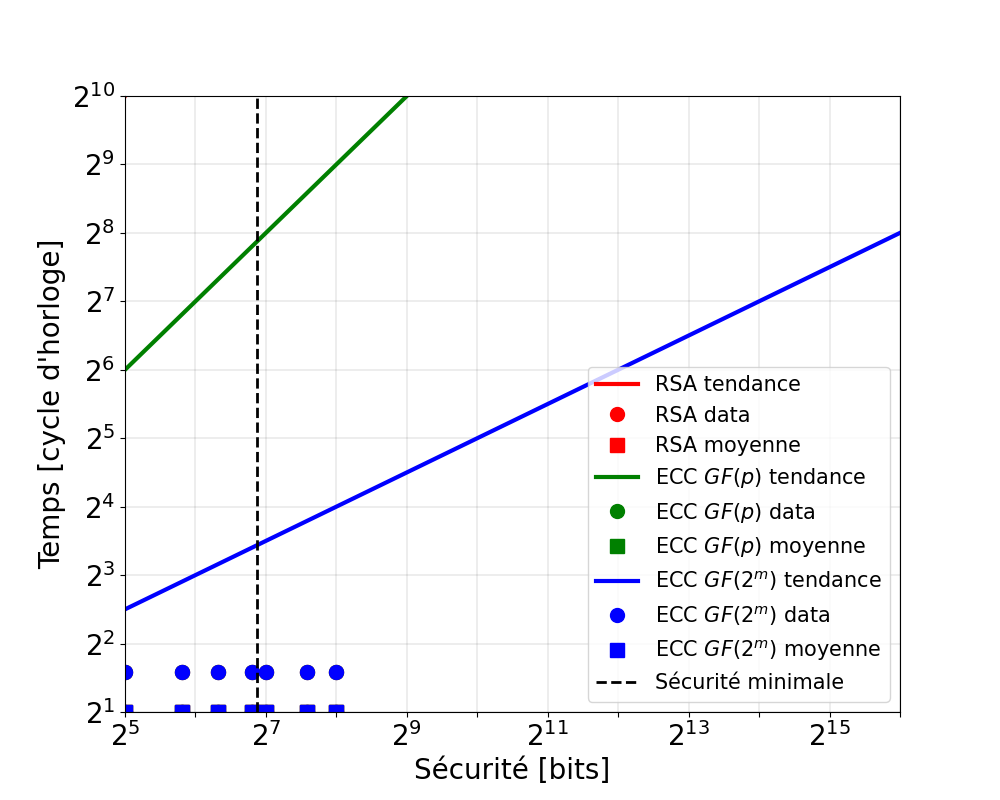
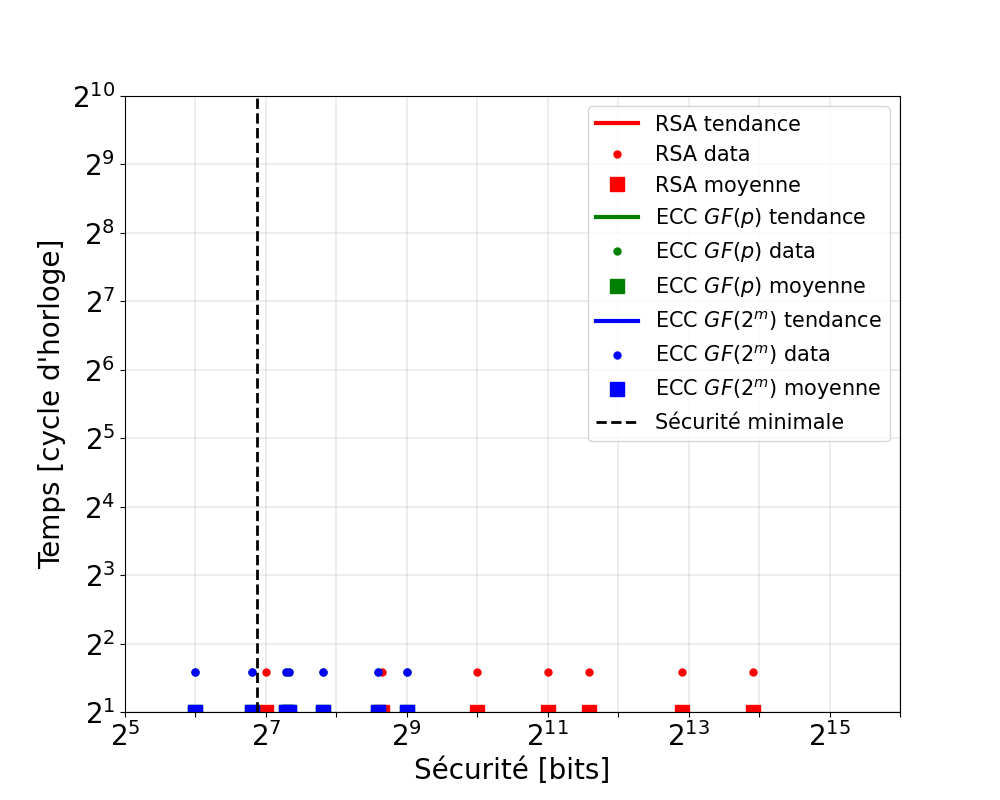
wip

diff --git a/python_crypto/Essai_figures/result_time_keygen.py b/python_crypto/Essai_figures/result_time_keygen.py
@@ -1,92 +1,120 @@
-from prime_utils import*
-from elliptic_curve import*
+from prime_utils import *
+from elliptic_curve import *
 from math import comb
-from graphs import*
+from graphs import *
 import numpy as np
 
 path = "./images/figure_time_keygen.png"
 x_label = "Sécurité [bits]"
 y_label = "Temps [cycle d'horloge]"
-markersize = 10
+markersize_data = 5
+markersize_mean = 10
 linewidth = 3
+nb_round = 20
 securities = np.logspace(5, 16, 100, True, 2)
+key_length_symetric = [32, 56, 80, 112, 128, 192, 256]
 
-data_rsa_32 = [1,2,3]
-data_rsa_56 = [1,2,3]
-data_rsa_80 = [1,2,3]
-data_rsa_112 = [1,2,3]
-data_rsa_128 = [1,2,3]
-data_rsa_192 = [1,2,3]
-data_rsa_256 = [1,2,3]
+def f_clock_keygen(nb_bits, nb_round, nb_tries):
+    return 3 * nb_bits * nb_bits * nb_round * nb_tries + nb_tries
+
+
+# def f_regs_keygen(nb_bits, nb_round, nb_tries):
+#     return nb_round * nb_tries * (14 * nb_bits ** 3 - 5 * nb_bits ** 2) + nb_tries
+#
+#
+# def f_gates_keygen(nb_bits, nb_round, nb_tries):
+#     return nb_tries * (nb_round * (56 * nb_bits ** 3 - 17 * nb_bits ** 2 - 3 * nb_bits) + 5 * nb_bits)
+
+
+data_rsa_32 = [1, 2, 3]
+data_rsa_56 = [1, 2, 3]
+data_rsa_80 = [1, 2, 3]
+data_rsa_112 = [1, 2, 3]
+data_rsa_128 = [1, 2, 3]
+data_rsa_192 = [1, 2, 3]
+data_rsa_256 = [1, 2, 3]
 data_rsa = [data_rsa_32, data_rsa_56, data_rsa_80, data_rsa_112, data_rsa_128, data_rsa_192, data_rsa_256]
-security_rsa = [32, 56, 80, 112, 128, 192, 256]
+key_length_rsa = [128, 400, 1024, 2044, 3072, 7680, 15360]
 labels_rsa = ["RSA tendance", "RSA data", "RSA moyenne"]
 color_shapes_rsa = ['r-', 'ro', 'rs']
 
-def f_rsa(nb_try):
-    return nb_try**2
+def f_rsa(nb_bits, nb_round):
+    nb_tries = np.log(2)*nb_bits/2
+    return f_clock_keygen(nb_bits, nb_round, nb_tries)
 
-data_ecc_p_32 = [1,2,3]
-data_ecc_p_56 = [1,2,3]
-data_ecc_p_80 = [1,2,3]
-data_ecc_p_112 = [1,2,3]
-data_ecc_p_128 = [1,2,3]
-data_ecc_p_192 = [1,2,3]
-data_ecc_p_256 = [1,2,3]
+
+data_ecc_p_32 = [1, 2, 3]
+data_ecc_p_56 = [1, 2, 3]
+data_ecc_p_80 = [1, 2, 3]
+data_ecc_p_112 = [1, 2, 3]
+data_ecc_p_128 = [1, 2, 3]
+data_ecc_p_192 = [1, 2, 3]
+data_ecc_p_256 = [1, 2, 3]
 data_ecc_p = [data_ecc_p_32, data_ecc_p_56, data_ecc_p_80, data_ecc_p_112, data_ecc_p_128, data_ecc_p_192, data_ecc_p_256]
-security_ecc_p = [32, 56, 80, 112, 128, 192, 256]
+key_length_ecc_p = [64, 112, 160, 224, 156, 384, 512]
 labels_ecc_p = [r"ECC $GF(p)$ tendance", "ECC $GF(p)$ data", "ECC $GF(p)$ moyenne"]
 color_shapes_ecc_p = ['g-', 'go', 'gs']
 
-def f_ecc_p(nb_try):
-    return 2*nb_try
 
-data_ecc_2m_32 = [1,2,3]
-data_ecc_2m_56 = [1,2,3]
-data_ecc_2m_80 = [1,2,3]
-data_ecc_2m_112 = [1,2,3]
-data_ecc_2m_128 = [1,2,3]
-data_ecc_2m_192 = [1,2,3]
-data_ecc_2m_256 = [1,2,3]
+def f_ecc_p(nb_bits, nb_round):
+    nb_tries = np.log(2)*nb_bits/2
+    return f_clock_keygen(nb_bits, nb_round, nb_tries)
+
+
+data_ecc_2m_32 = [1, 2, 3]
+data_ecc_2m_56 = [1, 2, 3]
+data_ecc_2m_80 = [1, 2, 3]
+data_ecc_2m_112 = [1, 2, 3]
+data_ecc_2m_128 = [1, 2, 3]
+data_ecc_2m_192 = [1, 2, 3]
+data_ecc_2m_256 = [1, 2, 3]
 data_ecc_2m = [data_ecc_2m_32, data_ecc_2m_56, data_ecc_2m_80, data_ecc_2m_112, data_ecc_2m_128, data_ecc_2m_192, data_ecc_2m_256]
-security_ecc_2m = [32, 56, 80, 112, 128, 192, 256]
+key_length_ecc_2m = [64, 112, 160, 224, 156, 384, 512]
 labels_ecc_2m = [r"ECC $GF(2^m)$ tendance", "ECC $GF(2^m)$ data", "ECC $GF(2^m)$ moyenne"]
 color_shapes_ecc_2m = ['b-', 'bo', 'bs']
 
-def f_ecc_2m(nb_try):
-    return np.sqrt(nb_try)
+
+def f_ecc_2m(nb_bits, nb_round):
+    nb_tries = np.log(2)*nb_bits/2
+    return f_clock_keygen(nb_bits, nb_round, nb_tries)
+
 
 def get_RSA(n):
-    log_n = n*np.log(2)
-    f1 = (64/9)**(1/3)
-    f2 = (log_n)**(1/3)
-    f3 = (np.log(log_n))**(2/3)
-    f4 = f1*f2*f3
-    return f4*np.log2(np.exp(1))
+    log_n = n * np.log(2)
+    f1 = (64 / 9) ** (1 / 3)
+    f2 = (log_n) ** (1 / 3)
+    f3 = (np.log(log_n)) ** (2 / 3)
+    f4 = f1 * f2 * f3
+    return f4 * np.log2(np.exp(1))
+
 
 def plot_data(ax, security, data, label, color_shape, markersize):
     x = np.array([security for _ in data])
-    ax.plot(np.log2(x), np.log2(data), color_shape,  markersize=markersize, label=label)
+    ax.plot(np.log2(x), np.log2(data), color_shape, markersize=markersize, label=label)
+
 
 def plot_mean(ax, security, data, label, color_shape, markersize):
-    ax.plot(np.log2(security), np.mean(np.log2(data)), color_shape,  markersize=markersize, label=label)
+    ax.plot(np.log2(security), np.mean(np.log2(data)), color_shape, markersize=markersize, label=label)
 
-def plot_trend(ax, f, securities, label, linewidth, color_shape):
-    ax.plot(np.log2(securities), np.log2(f(securities)), color_shape,  linewidth=linewidth, label=label)
 
-def plot_crypto(ax, f, security, securities, data_vector, labels, color_shapes, markersize, linewidth):
-    plot_trend(ax, f, securities, labels[0], linewidth, color_shapes[0])
+def plot_trend(ax, f, securities, label, linewidth, color_shape, nb_round):
+    ax.plot(np.log2(securities), np.log2(f(securities, nb_round)), color_shape, linewidth=linewidth, label=label)
+
+
+def plot_crypto(ax, f, key_length_symetric, key_length, securities, data_vector, labels, color_shapes, markersize_data, markersize_mean, linewidth, nb_round):
+    plot_trend(ax, f, securities, labels[0], linewidth, color_shapes[0], nb_round)
     for i in range(len(data_vector)):
         if i == 0:
-            plot_data(ax, security[i], data_vector[i], labels[1], color_shapes[1], markersize)
-            plot_mean(ax, security[i], np.mean(data_vector[i]), labels[2], color_shapes[2], markersize)
+            plot_data(ax, key_length[i], data_vector[i], labels[1], color_shapes[1], markersize_data)
+            plot_mean(ax, key_length[i], np.mean(data_vector[i]), labels[2], color_shapes[2], markersize_mean)
         else:
             pass
-            plot_data(ax, security[i], data_vector[i], "", color_shapes[1], markersize)
-            plot_mean(ax, security[i], np.mean(data_vector[i]), "", color_shapes[2], markersize)
+            plot_data(ax, key_length[i], data_vector[i], "", color_shapes[1], markersize_data)
+            plot_mean(ax, key_length[i], np.mean(data_vector[i]), "", color_shapes[2], markersize_mean)
+
 
 def get_axe(base, minimum, maximum):
-    skip = max(1, int(np.ceil((maximum-minimum+1)/10)))
+    skip = max(1, int(np.ceil((maximum - minimum + 1) / 10)))
 
     axe = []
     count = 0
@@ -99,32 +127,32 @@ def get_axe(base, minimum, maximum):
         count = np.mod(count + 1, skip)
     return axe
 
+
 if __name__ == "__main__":
     x_start = 5
     x_end = 16
     y_start = 1
     y_end = 10
     base = 2
-    fontsize=20
+    fontsize = 20
     fig = plt.figure(figsize=(10, 8), dpi=100)
     ax = fig.add_subplot(111)
 
-    plot_crypto(ax, f_rsa, security_rsa, securities, data_rsa, labels_rsa, color_shapes_rsa, markersize, linewidth)
-    plot_crypto(ax, f_ecc_p, security_ecc_p, securities, data_ecc_p, labels_ecc_p, color_shapes_ecc_p, markersize, linewidth)
-    plot_crypto(ax, f_ecc_2m, security_ecc_2m, securities, data_ecc_2m, labels_ecc_2m, color_shapes_ecc_2m, markersize, linewidth)
+    plot_crypto(ax, f_rsa, key_length_symetric, key_length_rsa, securities, data_rsa, labels_rsa, color_shapes_rsa, markersize_data, markersize_mean, linewidth, nb_round)
+    plot_crypto(ax, f_ecc_p, key_length_symetric, key_length_ecc_p, securities, data_ecc_p, labels_ecc_p, color_shapes_ecc_p, markersize_data, markersize_mean, linewidth, nb_round)
+    plot_crypto(ax, f_ecc_2m, key_length_symetric, key_length_ecc_2m, securities, data_ecc_2m, labels_ecc_2m, color_shapes_ecc_2m, markersize_data, markersize_mean, linewidth, nb_round)
     ax.plot([np.log2(get_RSA(2048)), np.log2(get_RSA(2048))], [y_start, y_end], 'k--', linewidth=2, label='Sécurité minimale')
-
-    ax.legend(fontsize=fontsize*0.75)
-    #ax.set_title(str(curve), fontsize=fontsize)
+    ax.legend(fontsize=fontsize * 0.75)
+    # ax.set_title(str(curve), fontsize=fontsize)
 
     ax.set_xlabel(x_label, fontsize=fontsize)
     ax.set_xlim([x_start, x_end])
-    ax.set_xticks([i for i in range(x_start, x_end+1)])
+    ax.set_xticks([i for i in range(x_start, x_end + 1)])
     ax.set_xticklabels(get_axe(base, x_start, x_end), fontsize=fontsize)
 
     ax.set_ylabel(y_label, fontsize=fontsize)
     ax.set_ylim([y_start, y_end])
-    ax.set_yticks([i for i in range(y_start, y_end+1)])
+    ax.set_yticks([i for i in range(y_start, y_end + 1)])
     ax.set_yticklabels(get_axe(base, y_start, y_end), fontsize=fontsize)
 
     ax.grid(visible=True, which='major', axis='both', color='k', linestyle='-', linewidth=0.1)

diff --git a/cryptography/code/sources/prime_arithmetic.cpp b/cryptography/code/sources/prime_arithmetic.cpp
@@ -434,31 +434,37 @@ bool is_prime_with_fermat_little_theorem(Large const& maybe_prime, Count& count,
     return is_prime;
 }
 
-////cannot determine stats as it will vary with the number of attempt to find prime
-//Large find_prime_equiv_3_mod_4(uint16_t size, QRandomGenerator& prng, Count& count)
-//{
-//    Large prime_under_test(size);
-//    prime_under_test.clear(0, size);
-//    prime_under_test[0] = true;
-//    prime_under_test[1] = true;
-//    prime_under_test[size-1] = true;
-//    count.regs += 3;
-//    uint64_t total = 0;
-//    do
-//    {
-//        for(uint16_t i=2; i<size-1; i++)
-//        {
-//            prime_under_test[i] = prng.generate() & 1;//prng.generate64() & 1;
-//            count.regs++;
-//        }
-//    } while(!is_prime_with_fermat_little_theorem(prime_under_test, count));
-//    return prime_under_test;
-//}
-
-//second attemp
-Large find_prime_equiv_3_mod_4(uint16_t size, QRandomGenerator& prng, Count& count)
+/*
+base (size)                     : 100*(n)
+exponent (size)                 : 100*(n)
+modulus (size)                  : 100*(n)
+result (size)                   : 100*(n)
+Latency                         : 100*(3*n*n) + 1
+Operations                      : 100*(14*n*n*n - 5*n*n) + n
+regs                            : 100*(14*n*n*n - 4*n*n)
+NOT_gates                       : 100*(12*n*n*n - 3*n) + n
+AND_gates                       : 100*(24*n*n*n - 8*n*n - n+ 1) + 2*n
+NAND_gates                      : 0
+OR_gates                        : 100*(14*n*n*n - n*n -3*n) + n
+NOR_gates                       : 0
+XOR_gates                       : 100*(16*n*n*n - 8*n*n) + 2*n
+XNOR_gates                      : 100*(n)
+*/
+Large find_prime_equiv_3_mod_4(uint16_t size, QRandomGenerator& prng, uint16_t nb_bits, uint16_t nb_round, uint16_t& tries, Storage& storage, Count& count)
 {
-    // a compléter
+    uint64_t n = nb_bits;
+    tries = fast_find_prime_equiv_3_mod_4(storage.prime_s, size, prng, storage, nb_round, nb_bits);
+    count.clock += (3*n*n*nb_round + 1)*tries;
+    count.operation += ((14*n*n*n - 5*n*n)*nb_round + n)*tries;
+    count.regs += ((14*n*n*n - 4*n*n)*nb_round)*tries;
+    count.NOT_gates += ((12*n*n*n - 3*n)*nb_round + n)*tries;
+    count.AND_gates += ((24*n*n*n - 8*n*n - n+ 1)*nb_round + 2*n)*tries;
+    count.NAND_gates += 0;
+    count.OR_gates += ((14*n*n*n - n*n -3*n)*nb_round + n)*tries;
+    count.NOR_gates += 0;
+    count.XOR_gates += ((16*n*n*n - 8*n*n)*nb_round + 2*n)*tries;
+    count.XNOR_gates += (n*nb_round)*tries;
+    return fast_large2Large(storage.prime_s, nb_bits);
 }
 
 /*

diff --git a/cryptography/code/sources/fast_large.cpp b/cryptography/code/sources/fast_large.cpp
@@ -1,6 +1,5 @@
 #include "fast_large.h"
 #include <QDebug>
-#include <QElapsedTimer>
 
 void new_storage(Storage& storage, uint16_t size)
 {
@@ -14,6 +13,7 @@ void new_storage(Storage& storage, uint16_t size)
     storage.one_s = new uint64_t[size];
     storage.base_s = new uint64_t[size];
     storage.result_s = new uint64_t[size];
+    storage.prime_s = new uint64_t[size];
     fast_init_with_small_number(1, storage.one_s, size);
 }
 
@@ -29,6 +29,7 @@ void delete_storage(Storage& storage)
     delete[] storage.one_s;
     delete[] storage.base_s;
     delete[] storage.result_s;
+    delete[] storage.prime_s;
     storage.difference_s1 = nullptr;
     storage.difference_s2 = nullptr;
     storage.product_2s = nullptr;
@@ -38,6 +39,7 @@ void delete_storage(Storage& storage)
     storage.phi_n_s = nullptr;
     storage.one_s = nullptr;
     storage.base_s = nullptr;
+    storage.result_s = nullptr;
     storage.result_s = nullptr;
 }
 
@@ -316,13 +318,11 @@ bool fast_is_prime_with_fermat_little_theorem(uint64_t maybe_prime[], uint16_t s
 
 uint16_t fast_find_prime_equiv_3_mod_4(uint64_t prime[], uint16_t size, QRandomGenerator& prng, Storage& storage, uint16_t nb_round, uint16_t nb_bits)
 {
-    QElapsedTimer timer;
     uint64_t one = 1;
     uint64_t all_one_32 = 4294967295;
     uint16_t tries = 0;
     uint16_t mask = 31;
     uint16_t index;
-    timer.start();
     do
     {
         tries++;
@@ -349,7 +349,6 @@ uint16_t fast_find_prime_equiv_3_mod_4(uint64_t prime[], uint16_t size, QRandomG
                 }
             }
         }
-      qDebug() << tries;
     } while(!fast_is_prime_with_fermat_little_theorem(prime, size, nb_round, storage));
     return tries;
 }

diff --git a/cryptography/code/sources/main.cpp b/cryptography/code/sources/main.cpp
@@ -42,26 +42,24 @@ int main(int argc, char *argv[])
 //        qDebug() << "Test Successful";// << Qt::endl;
 //    }
 
-    qDebug() << "-----------------------------";
-    qDebug() << "start";
+    Count count;
+    count_initialization(count);
     QRandomGenerator prng(1234);
-    uint16_t size = 48;
+    uint16_t nb_bits = 100;
+    uint16_t size = 4;
     Storage storage;
-    new_storage(storage, size);
-    uint16_t nb_bits = 1536;
+    uint16_t nb_primes_to_find = 10;
     uint16_t nb_round = 20;
-    uint64_t prime[size];
     uint16_t tries;
-    for(int i = 0; i<10; i++)
+    Large prime(nb_bits);
+    new_storage(storage, size);
+    for(uint64_t i=0; i<nb_primes_to_find; i++)
     {
-        tries = fast_find_prime_equiv_3_mod_4(prime, size, prng, storage, nb_round, nb_bits);
-        Large lprime = fast_large2Large(prime, nb_bits);
-        qDebug() <<"prime found" << i << tries << Large2String(lprime);
+        tries = 0;
+        prime = find_prime_equiv_3_mod_4(size, prng, nb_bits, nb_round, tries, storage, count);
+        qDebug() << i << tries << Large2String(prime);
     }
-
     delete_storage(storage);
-    qDebug() << "done";
-
 
 //    rsa_dummy1();
 //    return 0;

diff --git a/cryptography/code/headers/prime_arithmetic.h b/cryptography/code/headers/prime_arithmetic.h
@@ -3,6 +3,7 @@
 
 #include <QRandomGenerator>
 #include "bool_algeabra.h"
+#include "fast_large.h"
 
 void addition(Large const& addend1, Large const& addend2, Large& sum, Count& count);
 void substraction(Large const& minuend, Large const& substrahend, Large& difference, Count& count);
@@ -21,7 +22,7 @@ void inverse(Large const& a, Large const& n, Large const& phi_n, Large& result, 
 void inverse_with_prime(Large const& a, Large const& p, Large& result, Count& count); //assume gcd(a, n) = 1
 
 bool is_prime_with_fermat_little_theorem(Large const& maybe_prime, Count& count, uint16_t nb_round=100);
-Large find_prime_equiv_3_mod_4(uint16_t size, QRandomGenerator& prng, Count& count);
+Large find_prime_equiv_3_mod_4(uint16_t size, QRandomGenerator& prng, uint16_t nb_bits, uint16_t nb_round, uint16_t& tries, Storage& storage, Count& count);
 //bool is_prime_equiv_3_mod_4(Large const& prime, Count& count);
 //bool is_y_squared_a_quadratic_residue(Large const& y_squared, Count& count);
 //Large determine_y_knowing_y_squared_is_a_quadratic_residue(Large const& y_squared, Count& count);

diff --git a/cryptography/code/headers/fast_large.h b/cryptography/code/headers/fast_large.h
@@ -17,6 +17,7 @@ typedef struct Storage
     uint64_t* one_s;
     uint64_t* base_s;
     uint64_t* result_s;
+    uint64_t* prime_s;
     uint64_t primes[100] = {2, 3, 5, 7, 11, 13, 17, 19, 23, 29, 31, 37, 41, 43, 47, 53, 59, 61, 67, 71,
               73, 79, 83, 89, 97, 101, 103, 107, 109, 113, 127, 131, 137, 139, 149, 151, 157, 163, 167, 173,
               179, 181, 191, 193, 197, 199, 211, 223, 227, 229, 233, 239, 241, 251, 257, 263, 269, 271, 277, 281,
